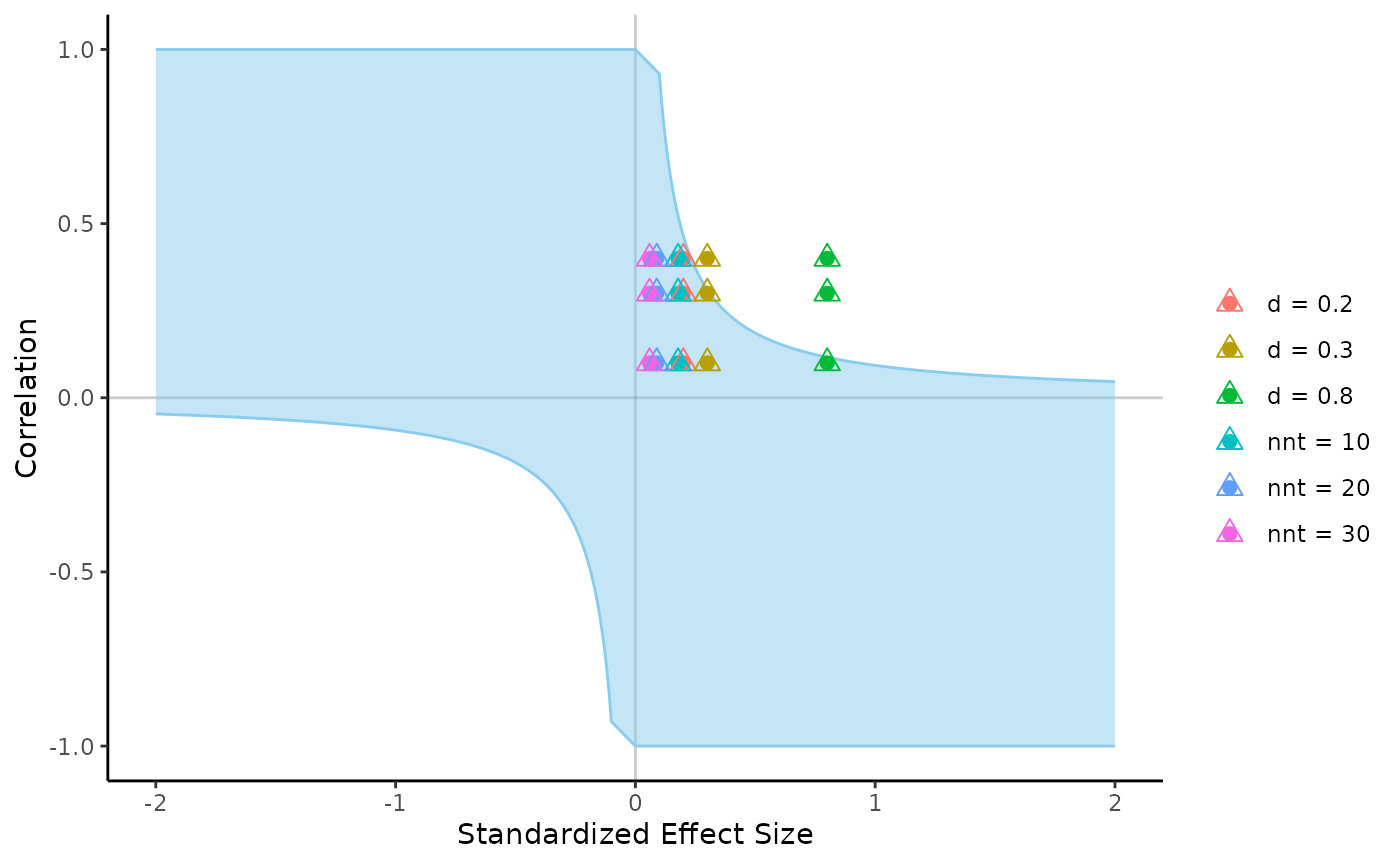
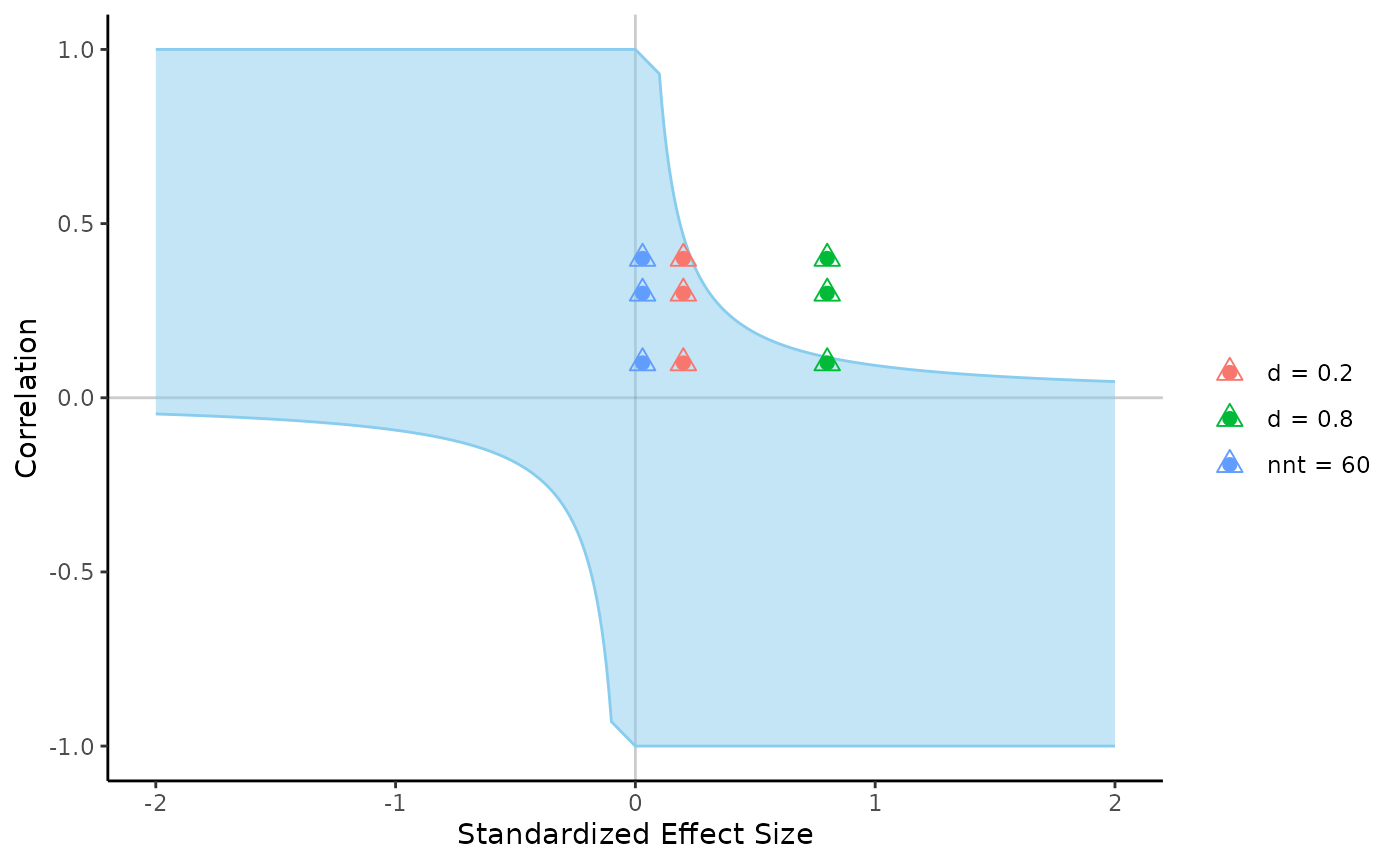
Deploying to gh-pages from @ doomlab/ViSe@70b906fce0782d6f98c17744fbce46c9bfe644f8 🚀

diff --git a/articles/Package_Functions.html b/articles/Package_Functions.html
@@ -766,8 +766,8 @@ large).</p>
 <span>                  <span class="co"># correlation values required</span></span>
 <span>                  r_values <span class="op">=</span> <span class="fu"><a href="https://rdrr.io/r/base/c.html" class="external-link">c</a></span><span class="op">(</span><span class="fl">.1</span>, <span class="fl">.4</span>, <span class="fl">.3</span><span class="op">)</span>,</span>
 <span>                  <span class="co"># other effect sizes you want to plot</span></span>
-<span>                  d_values <span class="op">=</span> <span class="fu"><a href="https://rdrr.io/r/base/c.html" class="external-link">c</a></span><span class="op">(</span><span class="fl">.2</span>, <span class="fl">.3</span>, <span class="fl">.8</span><span class="op">)</span>,</span>
-<span>                  nnt_values <span class="op">=</span> <span class="fu"><a href="https://rdrr.io/r/base/c.html" class="external-link">c</a></span><span class="op">(</span><span class="fl">10</span>, <span class="fl">20</span>, <span class="fl">30</span><span class="op">)</span>,</span>
+<span>                  d_values <span class="op">=</span> <span class="fu"><a href="https://rdrr.io/r/base/c.html" class="external-link">c</a></span><span class="op">(</span><span class="fl">.2</span>, <span class="fl">.8</span><span class="op">)</span>,</span>
+<span>                  nnt_values <span class="op">=</span> <span class="fu"><a href="https://rdrr.io/r/base/c.html" class="external-link">c</a></span><span class="op">(</span><span class="fl">60</span><span class="op">)</span>,</span>
 <span>                  <span class="co"># if you think d will be positive </span></span>
 <span>                  lower <span class="op">=</span> <span class="cn">TRUE</span><span class="op">)</span></span>
 <span></span>
@@ -775,7 +775,8 @@ large).</p>
 <p><img src="Package_Functions_files/figure-html/unnamed-chunk-10-1.png" width="700"></p>
 <div class="sourceCode" id="cb13"><pre class="downlit sourceCode r">
 <code class="sourceCode R"><span></span>
-<span><span class="co"># ggsave(filename = "visualize_c_map.png")</span></span>
+<span><span class="fu"><a href="https://ggplot2.tidyverse.org/reference/ggsave.html" class="external-link">ggsave</a></span><span class="op">(</span>filename <span class="op">=</span> <span class="st">"visualize_c_map.png"</span>, width <span class="op">=</span> <span class="fl">8</span><span class="op">)</span></span>
+<span><span class="co">#&gt; Saving 8 x 4.51 in image</span></span>
 <span></span>
 <span><span class="co"># ggplotly(visual_c_mapped$graph)</span></span></code></pre></div>
 <p>All options for the graph:</p>
